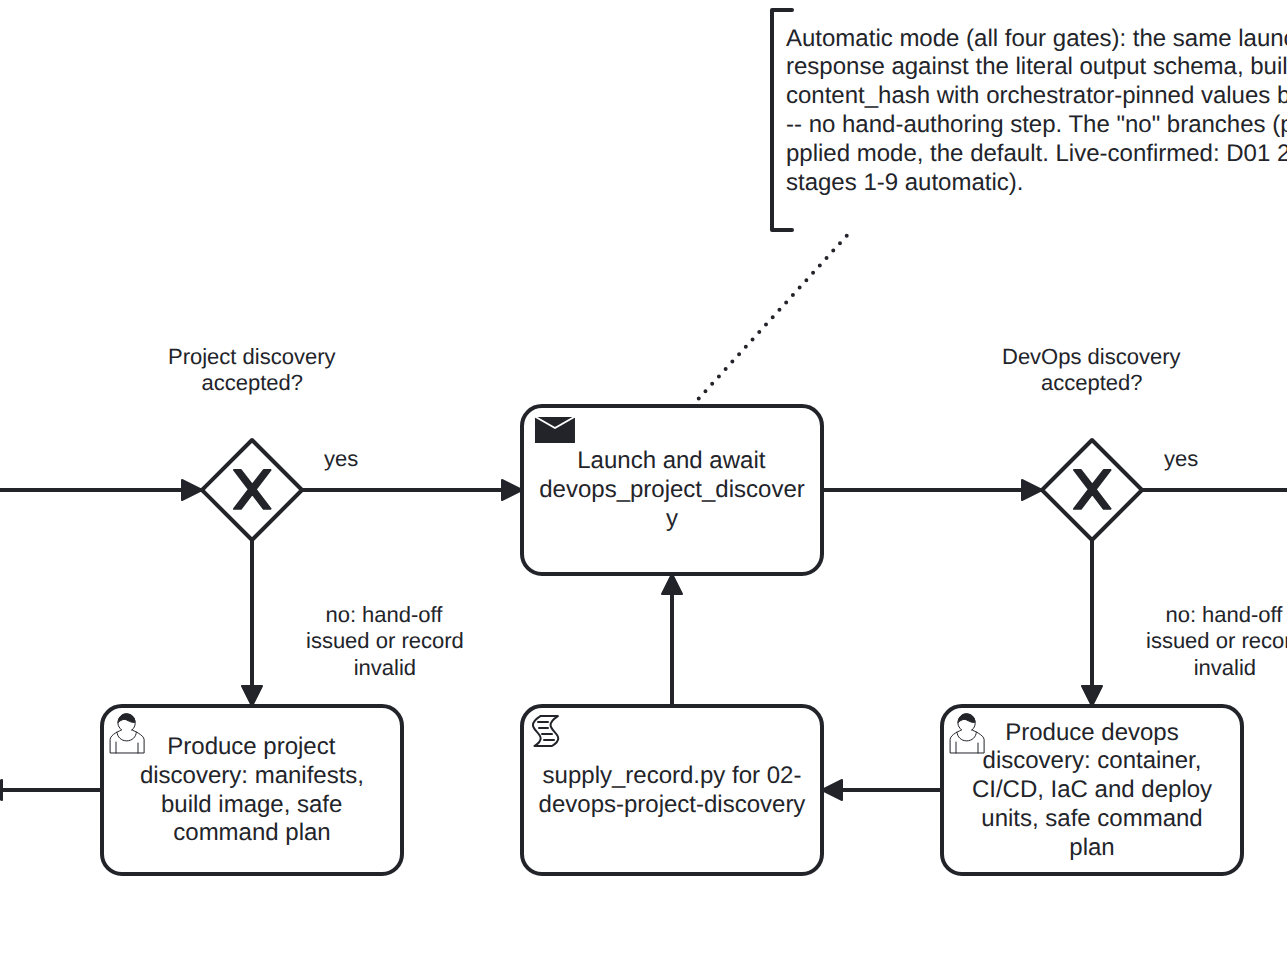
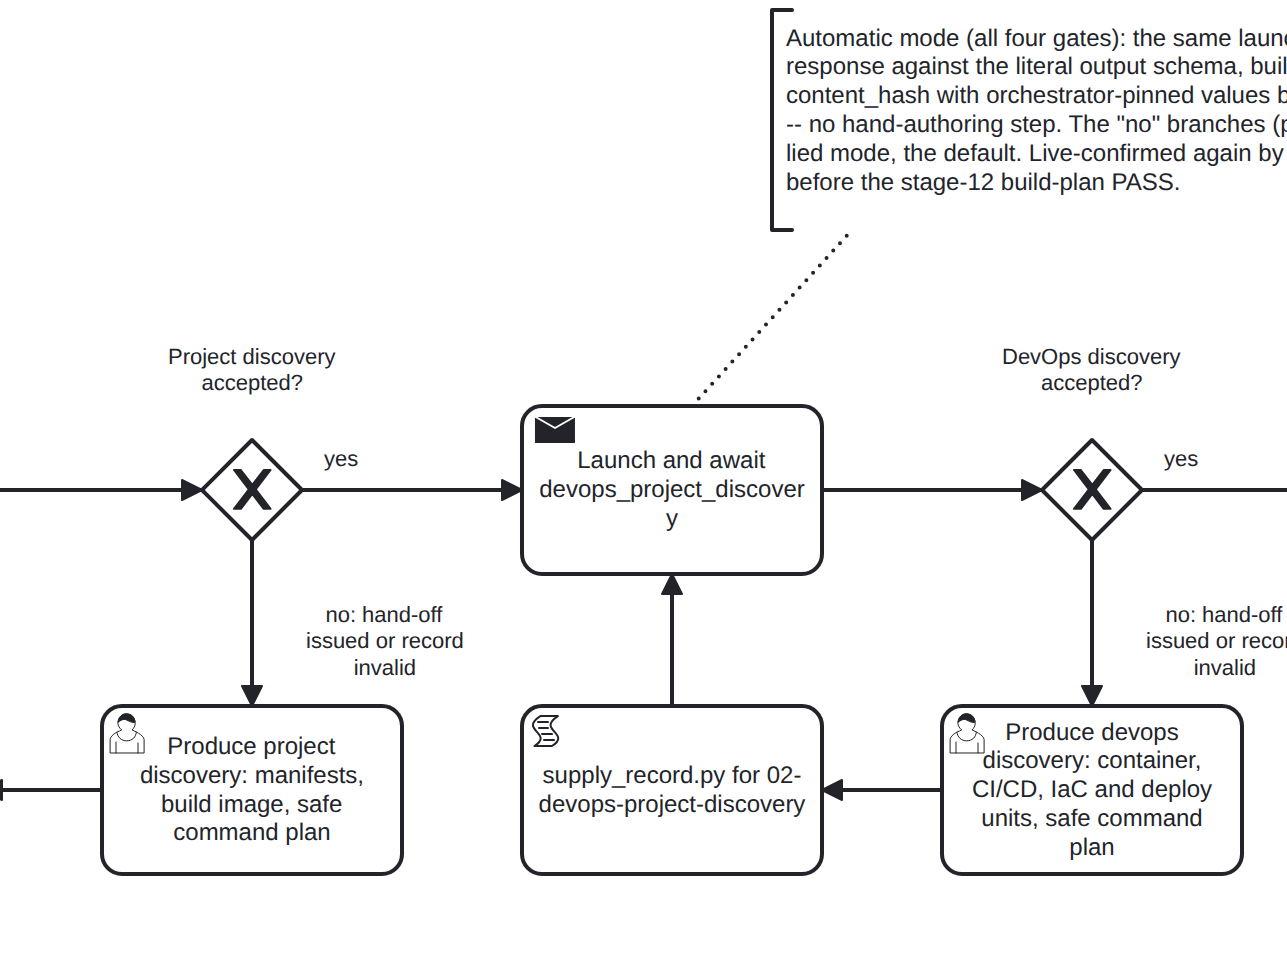
Qualify SAT stage 12 build plan
Preserve and validate the D02 independently-buildable-project fix, record the one fresh automatic-dispatch SAT through build-plan, refresh parity/readiness and the generated catalog, and regenerate the affected Mermaid and BPMN renders. Build-lane readiness remains fail-closed pending fault-recovery qualification.

Changed region(s): [[0.5905, 0.152, 1.0, 0.2128]]

diff --git a/appsec-review-process/tests/test_worker_adoption.py b/appsec-review-process/tests/test_worker_adoption.py
@@ -103,6 +103,22 @@ class AdoptionTests(unittest.TestCase):
                                        "side_effects": [], "evidence_citations": []}]
         self.assertTrue(validate_document(value, "project-discovery.schema.json"))
 
+    def test_project_discovery_rejects_a_non_buildable_project(self):
+        value = {"schema": "appsec-review/project-discovery/1.0", "target": "fixture",
+                 "source_revision": "a" * 40,
+                 "projects": [{"project_id": "vendored-copy", "root": "vendor/copy",
+                               "languages": ["C"], "manifests": [], "lockfiles": [],
+                               "candidate_buildenv_images": ["audit-buildenv-cpp:local"],
+                               "commands": [], "evidence_citations": [{
+                                   "source_type": "source_file", "path": "Makefile.am",
+                                   "line_range": None, "tool_name": None, "tool_rule_id": None,
+                                   "content_hash": "0" * 64, "note": "built by its parent"}],
+                               "confidence": "high"}],
+                 "safe_command_plan": [], "coverage_gaps": []}
+        errors = validate_document(value, "project-discovery.schema.json")
+        self.assertTrue(errors)
+        self.assertIn("$.projects[0].commands", " ".join(errors))
+
     def test_partition_common_envelope_reuse_and_invalid_newer_attempt_no_fallback(self):
         supplied = discovery_gate.supplied_path(self.run_id, discovery_gate.ADOPTED_JOB)
         state.atomic_json(supplied, partition_result(self.source_hash))

diff --git a/docs/processes/job-catalog.md b/docs/processes/job-catalog.md
@@ -299,7 +299,7 @@ The steps run so far on hello-autotools, in process-flow order. Source: `docs/pr
 | [dev_project_discovery (Dagster job)](#step-dev-project-discovery) | Dagster job | [`02-repository-partition-discovery`](#a-job-02-repository-partition-discovery)<br>[`dev-supplied`](#a-dev-supplied)<br>[`loaded-job-list`](#a-loaded-job-list) | [`02-dev-project-discovery`](#a-job-02-dev-project-discovery)<br>[`dev-handoff`](#a-dev-handoff) |
 | **Group rollup** | | **Enters:** [`dev-record`](#a-dev-record)<br>[`sut-checkout`](#a-sut-checkout)<br>[`run-dir`](#a-run-dir)<br>[`02-repository-partition-discovery`](#a-job-02-repository-partition-discovery)<br>[`loaded-job-list`](#a-loaded-job-list) | **Leaves:** [`02-dev-project-discovery`](#a-job-02-dev-project-discovery)<br>[`dev-handoff`](#a-dev-handoff) |
 
-### Fixture bring-up: S6a Build resolution (index and classification built; plan and resolution designed)
+### Fixture bring-up: S6a Build resolution (index, classification and plan built; resolution designed)
 
 | Step | Type | Consumes | Produces |
 |---|---|---|---|
@@ -356,7 +356,7 @@ The ops inside the engagement_workflow Dagster job. Source: `docs/dagster/dagste
 
 ## Lifecycle graph (full_review, job-graph.json)
 
-All 51 lifecycle nodes, grouped by lane in process-manifest.json order. Source: `appsec-review-process/job-graph.json`.
+All 54 lifecycle nodes, grouped by lane in process-manifest.json order. Source: `appsec-review-process/job-graph.json`.
 
 | Rolled up for the model | Artifacts |
 |---|---|
@@ -905,7 +905,7 @@ and the ops of `engagement_workflow`. Source: `docs/processes/catalog/steps.json
 | Lifecycle job(s) | [`02-build-plan`](#job-02-build-plan) |
 | Consumes | [`02-build-classify`](#a-job-02-build-classify)<br>[`build-index`](#a-build-index)<br>[`build-classification`](#a-build-classification)<br>[`buildenv-catalog`](#a-buildenv-catalog)<br>[`sut-checkout`](#a-sut-checkout)<br>[`llm-invoker`](#a-llm-invoker) |
 | Produces | [`02-build-plan`](#a-job-02-build-plan)<br>[`build-plan`](#a-build-plan) |
-| Notes | build_plan.py (built 2026-09-26, ADR-0012 revisions 2-3): one Haiku persona call per build-set unit reads the whole checkout, the accepted index and classification, the buildenv catalog and an orchestrator-written plan-unit.json, and plans that unit: base image, apt packages, ordered configure/build argv, compile-database method, feasibility tier, all cited. The compiler is fixed (our clang): no compiler, CC=/CXX= or compiler package; no test, check or install step; argv only, offline, inside the tree. The orchestrator sets toolchain, dispositions, upstream refs and citation hashes. An empty build set makes no model call. |
+| Notes | build_plan.py (built and live-confirmed 2026-09-26, SAT 20260926T215329Z, ADR-0012 revisions 2-3): one Haiku persona call per build-set unit reads the whole checkout, the accepted index and classification, the buildenv catalog and an orchestrator-written plan-unit.json, and plans that unit: base image, apt packages, ordered configure/build argv, compile-database method, feasibility tier, all cited. The compiler is fixed (our clang): no compiler, CC=/CXX= or compiler package; no test, check or install step; argv only, offline, inside the tree. The orchestrator sets toolchain, dispositions, upstream refs and citation hashes. An empty build set makes no model call. Fault-recovery qualification remains. |
 
 <a id="step-build-resolution"></a>
 
@@ -1246,8 +1246,8 @@ the source is named in each entry. Output paths are under `appsec-review-process
 | Produces | `runs/<run_id>/data/jobs/02-build-index/` |
 | Output files (registry/output-contracts/build-index.json) | build-index.json<br>build-index.md<br>status.json |
 | Consumed by | [`build-classify`](#step-build-classify)<br>[`02-build-classify`](#job-02-build-classify) |
-| Gaps | `not_yet_live_qualified` |
-| Next prerequisite | Live SAT stage 10 (build-index) on hal5000, then record qualification. |
+| Gaps | `fault_recovery_not_qualified` |
+| Next prerequisite | Run live fault-recovery qualification for reuse, tamper rejection, and newer-failure blocking. |
 
 <a id="job-02-build-classify"></a>
 
@@ -1266,8 +1266,8 @@ the source is named in each entry. Output paths are under `appsec-review-process
 | Produces | `runs/<run_id>/data/jobs/02-build-classify/` |
 | Output files (registry/output-contracts/build-classification.json) | build-classification.json<br>build-classification-summary.md<br>status.json |
 | Consumed by | [`build-plan`](#step-build-plan)<br>[`02-build-plan`](#job-02-build-plan) |
-| Gaps | `not_yet_live_qualified` |
-| Next prerequisite | Live SAT stage 11 (build-classify, --dispatch) on hal5000, then record qualification. |
+| Gaps | `fault_recovery_not_qualified` |
+| Next prerequisite | Run live fault-recovery qualification for reuse, tamper rejection, and newer-failure blocking. |
 
 <a id="job-02-build-plan"></a>
 
@@ -1286,8 +1286,8 @@ the source is named in each entry. Output paths are under `appsec-review-process
 | Produces | `runs/<run_id>/data/jobs/02-build-plan/` |
 | Output files (registry/output-contracts/build-plan.json) | build-plan.json<br>build-plan-summary.md<br>status.json |
 | Consumed by | -- |
-| Gaps | `not_yet_live_qualified` |
-| Next prerequisite | Live SAT stage 12 (build-plan) with --dispatch, then record qualification. |
+| Gaps | `fault_recovery_not_qualified` |
+| Next prerequisite | Run live fault-recovery qualification for reuse, tamper rejection, and newer-failure blocking. |
 
 <a id="job-02-evidence-assembly"></a>
 

diff --git a/docs/processes/flow-bringup.md b/docs/processes/flow-bringup.md
@@ -31,11 +31,11 @@ flowchart TD
   AD["Automatic persona dispatch D01-D04<br/>SAT --dispatch stages 6-9, live 2026-09-25"]:::done
   S6i["S6a-1 02-build-index: candidate units + cited signals<br/>deterministic, nothing executed<br/>built 2026-09-25; SAT stage 10 PASS (live upstreams 2026-09-26)"]:::done
   S6c["S6a-2 02-build-classify: one class per unit (live Sonnet)<br/>built 2026-09-25; SAT stage 11 PASS 2026-09-26"]:::done
-  S6p["S6a-3 02-build-plan: per-unit Haiku plan, clang fixed<br/>built 2026-09-26; SAT stage 12 next (live)"]:::next
-  S6a["S6a-4 02-build-resolution (image + trial build loop, image_build_id catalog)<br/>(build-resolution.md, build-unit-classification.md)<br/>designed; needs Phase 3"]:::todo
+  S6p["S6a-3 02-build-plan: per-unit Haiku plan, clang fixed<br/>built 2026-09-26; SAT stage 12 PASS 2026-09-26"]:::done
+  S6a["S6a-4 02-build-resolution (image + trial build loop, image_build_id catalog)<br/>(build-resolution.md, build-unit-classification.md)<br/>designed; blocked on Phase 3 qualification"]:::blocked
   CPP["C++ buildenv prerequisite<br/>audit-native + LLVM 21.1.0 + autotools/Bear<br/>built and boundary-smoke PASS 2026-09-26"]:::done
   S6["S6b 02-build-configure / 02-native-build<br/>replay the build lock; blocked: S6a and E01"]:::blocked
-  B13["Phase 3: B13 verifier binding + B16 registry done 2026-09-27<br/>next: live harmless-fixture Dagster op"]:::todo
+  B13["Phase 3: B13 verifier binding + B16 registry done 2026-09-27<br/>next: live harmless-fixture Dagster op"]:::next
   E01["E01/E02: replay the lock through B13"]:::todo
 
   P0 --> P1 --> S1 --> S2 --> S3 --> S4a --> S4b --> S5 --> S5b --> S6i --> S6c --> S6p --> S6a --> S6
@@ -265,6 +265,27 @@ supported". The configure worker planned as batch E01 replays S5's command plan 
 
 ## Log
 
+- 2026-09-26 -- **SAT PASS through `build-plan`: stages 1-12 all green with every model step live.**
+  The one fresh qualification was automatic-dispatch SAT `20260926T215329Z`, engagement
+  `20260926T215743Z-4190aa`, on zarathustra. Exact Dagster runs: engagement workflow
+  `88a013b0-7138-4f15-9978-8667468eeada`; partition `fd304d21-97ba-47d1-bceb-4e034216a1a0`;
+  developer discovery `b923519a-f076-4ad1-a011-c5cbad0c3041`; devops discovery
+  `ab0cc765-1f62-4db4-b922-b930129acdc4`; SRE topology
+  `eb76be64-4351-4e0e-9963-3a9dd443a025`; build index
+  `f38d72a8-42f6-4b6b-82eb-a94df11421fa`; build classification
+  `b449c8a3-477e-4c10-b5fc-25d1d5bb97cd`; build plan
+  `bdac97da-5156-49b8-8ca3-c2550b9d4513`. The accepted D02 result contains only the independently
+  buildable `hello-autotools-cli` project; vendored cJSON remains a member of that root project.
+  Stage 10 found units `dir:.` and `file:Dockerfile`, attached `vendor/cJSON-1.7.18` to the root,
+  and recorded 29 signals with no omissions. Stage 11 classified the root `compiled-native` and
+  the Dockerfile `container`, build set `dir:.`, with zero gaps. Stage 12 used
+  `claude-haiku-4-5-20251001` and published one tier-A autotools plan: base
+  `audit-buildenv-cpp`, packages `autoconf`, `automake`, `libtool`, commands `autoreconf -fi`,
+  `./configure`, `make`, and the Dockerfile disposition `dockerfile-analysis-and-base-image-scan`;
+  zero coverage gaps. Omitting `make` from the apt package list differed from the structural
+  reference but was informational because the fixed base already supplies it. The next SAT stage
+  is `02-build-resolution`; the three built build-lane jobs remain
+  `implemented_not_qualified` until live reuse/tamper/newer-failure recovery qualification.
 - 2026-09-27 -- **B16 host-local image registry implemented; generated-at-start strategy approved
   by William.** `images/registry_records.py` derives ignored B13 records for six shared step-4
   images plus all 13 `tool-*` images from each successful build pointer, re-derives the current

diff --git a/appsec-review-process/TODO.md b/appsec-review-process/TODO.md
@@ -1106,14 +1106,22 @@ Work order (one piece at a time):
    `20260926T184019Z-53d1da`, Dagster `c502e7b6`): classes and build set equal the answer key. Readiness
    `implemented_not_qualified` until fault-recovery qualification. Fixed on the way: schema-safe claims,
    the bounded repair retry (`invocation.repair_attempts`), the indexer's vendored-tree rule.
-4. [ ] `02-build-plan` (Haiku, one call per build-set unit, reads the checkout, the index, the
-   classification and the buildenv catalog); SAT stage 12. In progress 2026-09-26: step 1 (ADR-0012
+4. [x] `02-build-plan` (Haiku, one call per build-set unit, reads the checkout, the index, the
+   classification and the buildenv catalog); SAT stage 12. Built 2026-09-26: step 1 (ADR-0012
    Revision 3: clang fixed by our code, no test phase; `schemas/build-plan.schema.json`, output contract
    `build-plan` (claim class `build_unit_plan`), role `build-planner`, job template `02-build-plan`
    (haiku/medium), `task-build-plan.md`); step 2 (`build_plan.py`: validator, finalize/merge, per-unit
    persona worker, claim builder, 23 tests); step 3 (graph node on `02-build-classify`, Dagster job
    `build_plan` on persona_llm, parity entry, 54 jobs, catalog); step 4 (SAT stage 12 with the structural
-   answer key `fixtures/supplied/hello-autotools/02-build-plan-structure.json`). Next: the live SAT.
+   answer key `fixtures/supplied/hello-autotools/02-build-plan-structure.json`). **SAT PASS through
+   stage 12, 2026-09-26** (zarathustra, the one fresh qualification SAT `20260926T215329Z`, run
+   `20260926T215743Z-4190aa`, build-plan Dagster `bdac97da`): one tier-A autotools plan for `dir:.`,
+   base `audit-buildenv-cpp`, packages `autoconf`, `automake`, `libtool`, configure/build commands
+   `autoreconf -fi`, `./configure`, `make`, and disposition `dockerfile-analysis-and-base-image-scan`
+   for `file:Dockerfile`; zero coverage gaps; model `claude-haiku-4-5-20251001`. The missing `make`
+   package versus the structural reference was informational because the selected base already
+   supplies it. Readiness stays `implemented_not_qualified` until live fault-recovery qualification
+   proves reuse, tamper rejection and newer-failure blocking.
    **Image prerequisite complete 2026-09-26:** `audit-buildenv-cpp:local` now supplies the fixed
    LLVM 21.1.0 compiler environment and autotools/Bear toolchain required by Revision 3.
 5. [ ] `02-build-resolution` (per unit); SAT stage 13. Needs Phase 3 (B13 into service, B16 records,

diff --git a/docs/design-parity/design-parity-readiness.md b/docs/design-parity/design-parity-readiness.md
@@ -10,9 +10,9 @@ Generated by `appsec-review-process/validate_design_parity.py`; do not edit.
 | `02-dev-project-discovery` | `supplied_artifact` | `supplied_gate` | `supplied_artifact_gate` | Implement the shared persona dispatch runtime while retaining supplied-artifact mode. |
 | `02-devops-project-discovery` | `supplied_artifact` | `supplied_gate` | `supplied_artifact_gate` | Implement the shared persona dispatch runtime while retaining supplied-artifact mode. |
 | `02-sre-operations-topology` | `supplied_artifact` | `supplied_gate` | `supplied_artifact_gate` | Implement the shared persona dispatch runtime while retaining supplied-artifact mode. |
-| `02-build-index` | `deterministic_python` | `actual_worker` | `implemented_not_qualified` | Live SAT stage 10 (build-index) on hal5000, then record qualification. |
-| `02-build-classify` | `persona` | `actual_worker` | `implemented_not_qualified` | Live SAT stage 11 (build-classify, --dispatch) on hal5000, then record qualification. |
-| `02-build-plan` | `persona` | `actual_worker` | `implemented_not_qualified` | Live SAT stage 12 (build-plan) with --dispatch, then record qualification. |
+| `02-build-index` | `deterministic_python` | `actual_worker` | `implemented_not_qualified` | Run live fault-recovery qualification for reuse, tamper rejection, and newer-failure blocking. |
+| `02-build-classify` | `persona` | `actual_worker` | `implemented_not_qualified` | Run live fault-recovery qualification for reuse, tamper rejection, and newer-failure blocking. |
+| `02-build-plan` | `persona` | `actual_worker` | `implemented_not_qualified` | Run live fault-recovery qualification for reuse, tamper rejection, and newer-failure blocking. |
 | `02-evidence-assembly` | `none` | `blocked_op` | `missing_prerequisites` | Add registry composition, worker, validator, contract, lifecycle binding, pool, and qualification. |
 | `01-component-characterization` | `none` | `blocked_op` | `missing_prerequisites` | Add registry composition, worker, validator, contract, lifecycle binding, pool, and qualification. |
 | `03-threat-model-dfd-stride` | `none` | `blocked_op` | `missing_prerequisites` | Add registry composition, worker, validator, contract, lifecycle binding, pool, and qualification. |

diff --git a/docs/processes/build-resolution.md b/docs/processes/build-resolution.md
@@ -1,6 +1,6 @@
 # Build resolution: learning how to build an unknown target
 
-Status: **section 1 (`02-build-index`) BUILT 2026-09-25** (`build_index.py`; SAT stage 10 PASS, SAT `20260925T211247Z`); **`02-build-classify` BUILT 2026-09-25** (SAT stage 11 PASS with live upstreams, SAT `20260926T183609Z`); **section 3 (`02-build-plan`) BUILT 2026-09-26** (SAT stage 12 not yet run live); sections 2, 4 and 5
+Status: **section 1 (`02-build-index`) BUILT 2026-09-25** (`build_index.py`; SAT stage 10 PASS, SAT `20260925T211247Z`); **`02-build-classify` BUILT 2026-09-25** (SAT stage 11 PASS with live upstreams, SAT `20260926T183609Z`); **section 3 (`02-build-plan`) BUILT and live-confirmed 2026-09-26** (fresh automatic-dispatch SAT `20260926T215329Z`, stage 12 PASS); sections 2, 4 and 5
 (`02-build-resolution`, catalog and lock) **DESIGN, not built** (2026-09-24). Decision record: [ADR-0012](../decisions/ADR-0012-build-resolution.md).
 The fixed C/C++ base prerequisite, `audit-buildenv-cpp:local`, is **BUILT and smoke-verified
 2026-09-26** on `audit-native:local`: LLVM 21.1.0 at `/opt/llvm`, fixed `CC`/`CXX`, and

diff --git a/docs/design-parity/design-parity-report.md b/docs/design-parity/design-parity-report.md
@@ -125,15 +125,15 @@ Design capabilities: **15**
 - 02-binary-triage: no_qualification
 - 02-binary-triage: resource pool unassigned
 - 02-binary-triage: unassigned_resource_pool
-- 02-build-classify: not_yet_live_qualified
+- 02-build-classify: fault_recovery_not_qualified
 - 02-build-configure: graph_implemented_flag_false
 - 02-build-configure: missing_dedicated_output_schema
 - 02-build-configure: missing_output_contract
 - 02-build-configure: missing_registry_composition
 - 02-build-configure: no qualification evidence
 - 02-build-configure: no_live_full_review_qualification
-- 02-build-index: not_yet_live_qualified
-- 02-build-plan: not_yet_live_qualified
+- 02-build-index: fault_recovery_not_qualified
+- 02-build-plan: fault_recovery_not_qualified
 - 02-container-image-inventory: missing_registry_composition
 - 02-container-image-inventory: missing_validator
 - 02-container-image-inventory: missing_worker

diff --git a/appsec-review-process/02-evidence-pregather/task-dev-project-discovery.md b/appsec-review-process/02-evidence-pregather/task-dev-project-discovery.md
@@ -36,6 +36,13 @@ files actually declare (a `Makefile` target, a `package.json` script, a CI workf
 autotools `configure.ac`) -- never a generic guess at what a project "usually" needs. Cite the exact
 file each claim comes from.
 
+Every entry in `projects` must be independently buildable or testable and must therefore have at
+least one command in `commands`. A vendored dependency, generated-code directory, example or fixture
+with no independent build/test commands is **not a project**: describe it within its owning project
+or in `coverage_gaps`, but do not emit a separate `projects` entry for it. In particular, a vendored
+tree that the parent project's manifest compiles is part of that parent project even when the
+partition map gives the vendored path its own review partition.
+
 ## Safe Command Plan
 
 For every command in a project's build/test sequence, decide and record: its exact argv; its

diff --git a/docs/processes/system-acceptance-test.md b/docs/processes/system-acceptance-test.md
@@ -79,6 +79,13 @@ unbuilt stage stops it with `NOT_IMPLEMENTED` (exit 3).
 | 20 | `sarif` | |
 | 21 | `report` | |
 
+Stage 12 was live-confirmed on 2026-09-26 by the one fresh automatic-dispatch qualification SAT
+`20260926T215329Z` (engagement `20260926T215743Z-4190aa`, build-plan Dagster run
+`bdac97da-5156-49b8-8ca3-c2550b9d4513`). The accepted plan covered the sole build-set unit with
+the expected autotools configure/build structure and recorded the Dockerfile as static-analysis
+work, not a build input. The remaining readiness gap is fault-recovery qualification, not another
+happy-path SAT.
+
 Phase 3 prerequisite status (2026-09-27): B13's three result-verification entry points require the
 caller-retained `result_sha256`, including C02 handoff and cancellation. B16 now generates and
 Docker-checks the 19 host-local step-4 image records at code-location startup. Neither change builds
